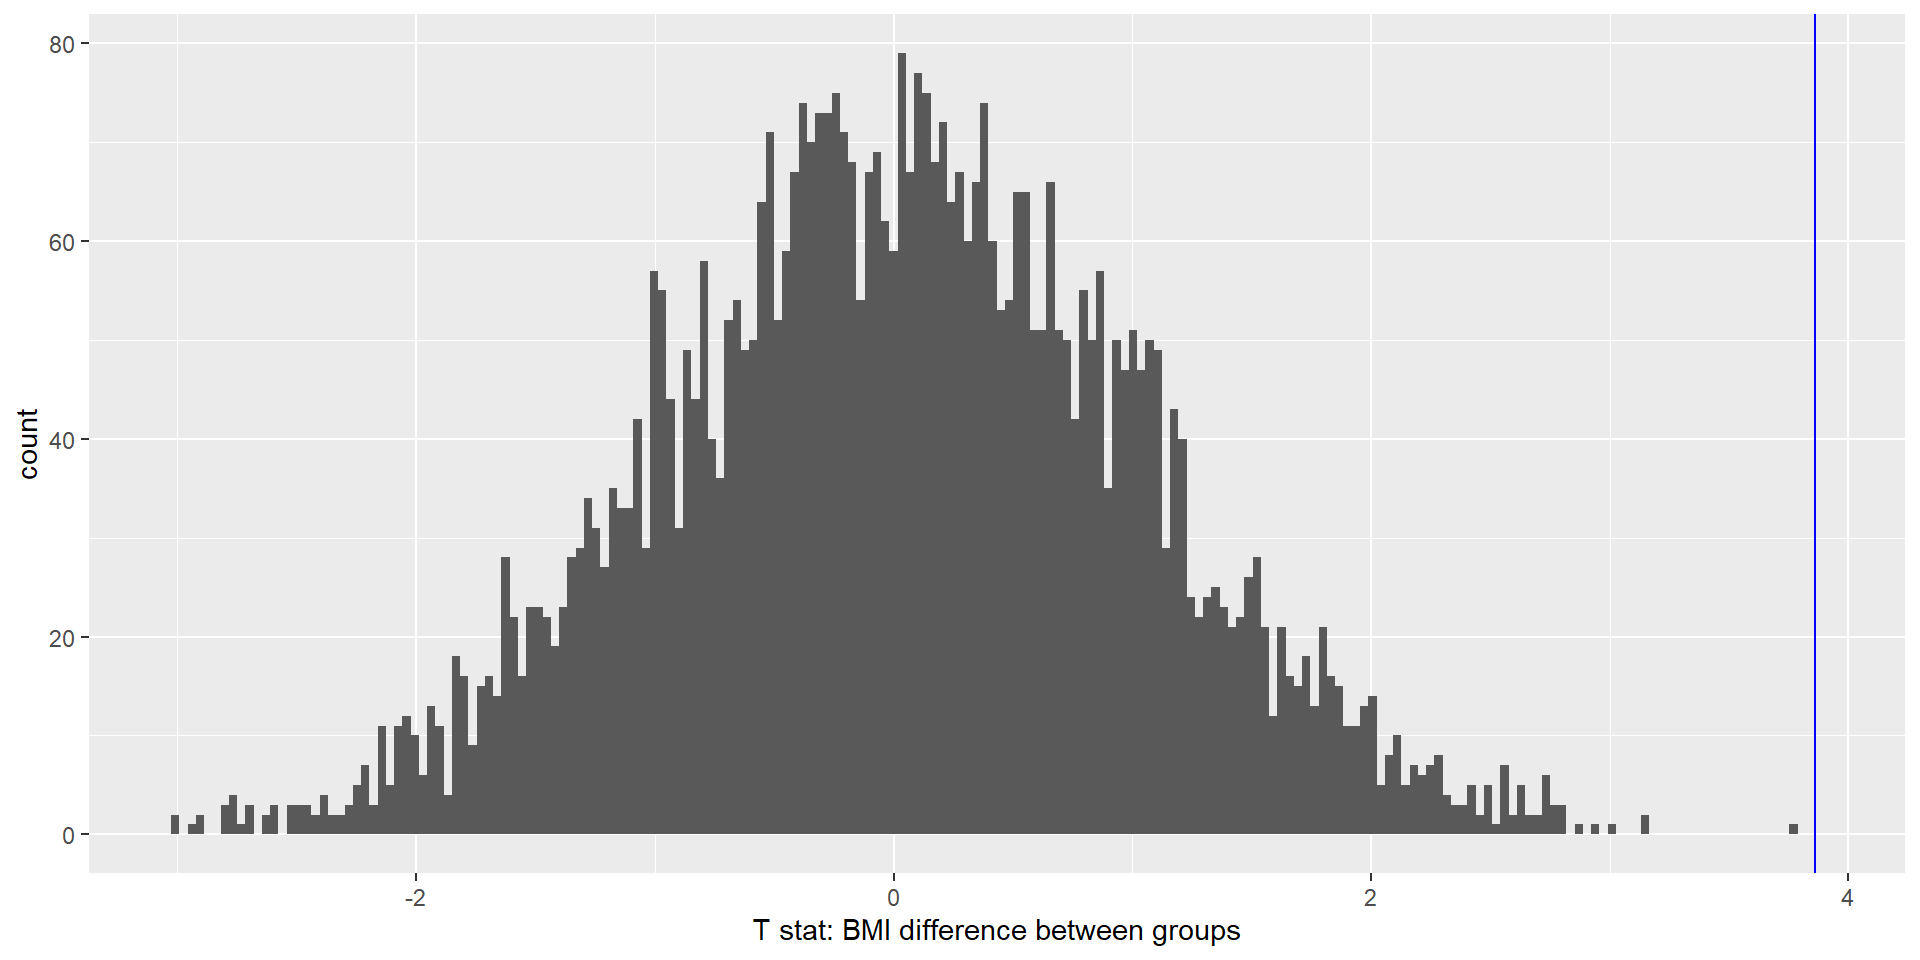
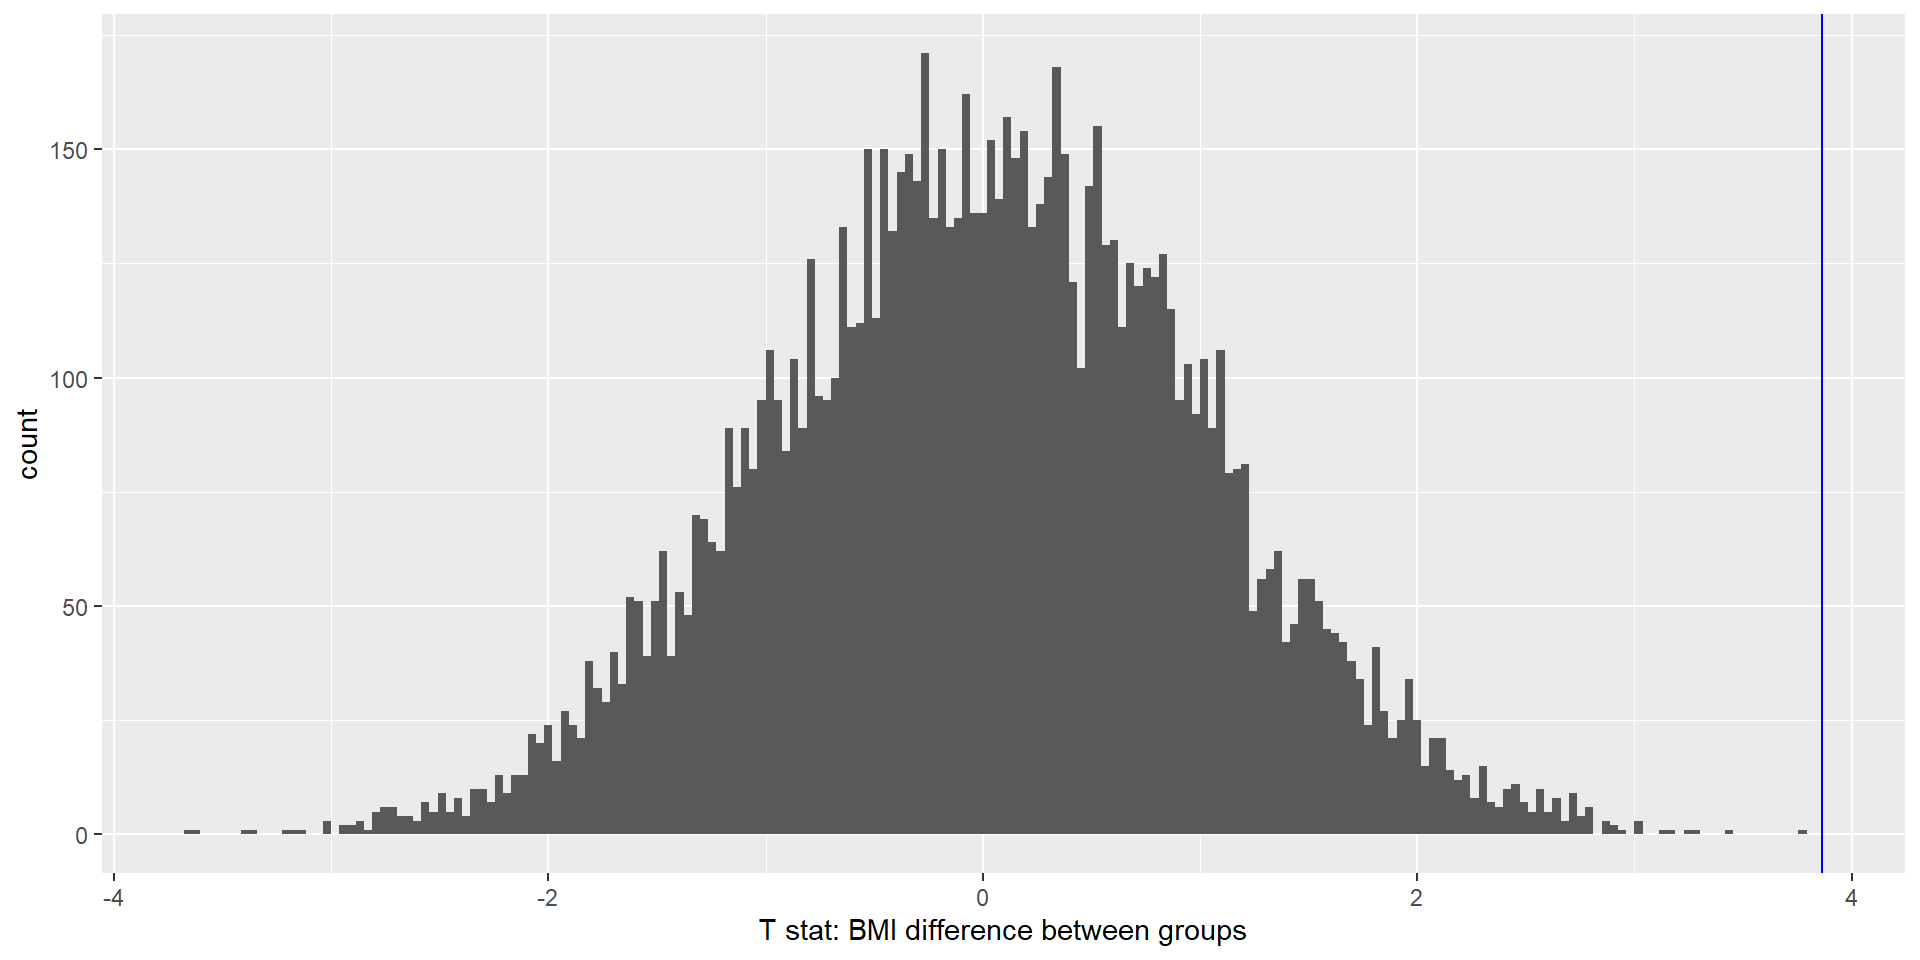
post-lecture adjustments

diff --git a/docs/W7_Hypothesis.html b/docs/W7_Hypothesis.html
@@ -568,20 +568,24 @@ The alternative hypothesis (<span class="math inline">\(H_A\)</span>) describes 
 </tbody>
 </table>
 </div>
-<div class="cell-output-display">
-<div class="quarto-figure quarto-figure-center">
-<figure>
-<p><img data-src="W7_Hypothesis_files/figure-revealjs/unnamed-chunk-2-1.png" width="960"></p>
-</figure>
-</div>
-</div>
-</div>
 
-<aside><div>
+</div>
+<img data-src="W7_Hypothesis_files/figure-revealjs/unnamed-chunk-2-1.png" width="960" class="r-stretch quarto-figure-center"><aside class="notes">
 <p><span class="math inline">\(BMI &gt; 75 kg/m^2\)</span>?<br>
-→ over 243 kg</p>
+→ over 243 kg @ 1.8 m height</p>
 <p>Very high but possible</p>
-</div></aside></section>
+<style type="text/css">
+        span.MJX_Assistive_MathML {
+          position:absolute!important;
+          clip: rect(1px, 1px, 1px, 1px);
+          padding: 1px 0 0 0!important;
+          border: 0!important;
+          height: 1px!important;
+          width: 1px!important;
+          overflow: hidden!important;
+          display:block!important;
+      }</style></aside>
+</section>
 <section id="step-4-fit-a-model" class="slide level2">
 <h2>Step 4: Fit a Model</h2>
 <p>We want to compute a <strong>test statistic</strong> that helps us decide whether to reject <span class="math inline">\(H_0\)</span> or not.</p>
@@ -769,7 +773,7 @@ The alternative hypothesis (<span class="math inline">\(H_A\)</span>) describes 
 <section id="p-values-using-randomization" class="slide level2">
 <h2>P-Values using Randomization</h2>
 <div class="cell">
-<div class="sourceCode cell-code" id="cb5" data-code-line-numbers="7|10-13|18"><pre class="sourceCode numberSource r number-lines code-with-copy"><code class="sourceCode r"><span id="cb5-1"><a href="#cb5-1"></a><span class="co"># create function to shuffle BMI data</span></span>
+<div class="sourceCode cell-code" id="cb5" data-code-line-numbers="7|10-13|18|27-28"><pre class="sourceCode numberSource r number-lines code-with-copy"><code class="sourceCode r"><span id="cb5-1"><a href="#cb5-1"></a><span class="co"># create function to shuffle BMI data</span></span>
 <span id="cb5-2"><a href="#cb5-2"></a>shuffleBMIstat <span class="ot">&lt;-</span> <span class="cf">function</span>() {</span>
 <span id="cb5-3"><a href="#cb5-3"></a>  bmiDataShuffled <span class="ot">&lt;-</span> </span>
 <span id="cb5-4"><a href="#cb5-4"></a>    NHANES_sample <span class="sc">%&gt;%</span></span>
@@ -784,8 +788,8 @@ The alternative hypothesis (<span class="math inline">\(H_A\)</span>) describes 
 <span id="cb5-13"><a href="#cb5-13"></a>  )</span>
 <span id="cb5-14"><a href="#cb5-14"></a>  <span class="fu">return</span>(simResult<span class="sc">$</span>statistic)</span>
 <span id="cb5-15"><a href="#cb5-15"></a>}</span>
-<span id="cb5-16"><a href="#cb5-16"></a><span class="co"># run function 5000 times and save output</span></span>
-<span id="cb5-17"><a href="#cb5-17"></a>nRuns <span class="ot">&lt;-</span> <span class="dv">5000</span></span>
+<span id="cb5-16"><a href="#cb5-16"></a><span class="co"># run function 10'000 times and save output</span></span>
+<span id="cb5-17"><a href="#cb5-17"></a>nRuns <span class="ot">&lt;-</span> <span class="dv">10000</span></span>
 <span id="cb5-18"><a href="#cb5-18"></a>meanDiffSimDf <span class="ot">&lt;-</span> <span class="fu">tibble</span>(<span class="at">meanDiffSim =</span> <span class="fu">replicate</span>(nRuns, <span class="fu">shuffleBMIstat</span>()))</span>
 <span id="cb5-19"><a href="#cb5-19"></a><span class="co">#run t test of actual data</span></span>
 <span id="cb5-20"><a href="#cb5-20"></a>bmtTTest <span class="ot">&lt;-</span> </span>
@@ -796,22 +800,7 @@ The alternative hypothesis (<span class="math inline">\(H_A\)</span>) describes 
 <span id="cb5-25"><a href="#cb5-25"></a>)</span>
 <span id="cb5-26"><a href="#cb5-26"></a><span class="co">#compare actual data with simulation</span></span>
 <span id="cb5-27"><a href="#cb5-27"></a>bmiPvalRand <span class="ot">&lt;-</span> </span>
-<span id="cb5-28"><a href="#cb5-28"></a>  <span class="fu">mean</span>(meanDiffSimDf<span class="sc">$</span>meanDiffSim <span class="sc">&gt;=</span> bmtTTest<span class="sc">$</span>statistic)</span>
-<span id="cb5-29"><a href="#cb5-29"></a></span>
-<span id="cb5-30"><a href="#cb5-30"></a><span class="co">#plot everything</span></span>
-<span id="cb5-31"><a href="#cb5-31"></a>plot <span class="ot">=</span> meanDiffSimDf <span class="sc">%&gt;%</span> </span>
-<span id="cb5-32"><a href="#cb5-32"></a>  <span class="fu">ggplot</span>(<span class="fu">aes</span>(meanDiffSim)) <span class="sc">+</span></span>
-<span id="cb5-33"><a href="#cb5-33"></a>  <span class="fu">geom_histogram</span>(<span class="at">bins =</span> <span class="dv">200</span>) <span class="sc">+</span></span>
-<span id="cb5-34"><a href="#cb5-34"></a>  <span class="fu">geom_vline</span>(<span class="at">xintercept =</span> bmtTTest<span class="sc">$</span>statistic, <span class="at">color =</span> <span class="st">"blue"</span>) <span class="sc">+</span></span>
-<span id="cb5-35"><a href="#cb5-35"></a>  <span class="fu">xlab</span>(<span class="st">"T stat: BMI difference between groups"</span>) <span class="sc">+</span></span>
-<span id="cb5-36"><a href="#cb5-36"></a>  <span class="fu">geom_histogram</span>(</span>
-<span id="cb5-37"><a href="#cb5-37"></a>    <span class="at">data =</span> meanDiffSimDf <span class="sc">%&gt;%</span> </span>
-<span id="cb5-38"><a href="#cb5-38"></a>      <span class="fu">filter</span>(meanDiffSim <span class="sc">&gt;=</span> bmtTTest<span class="sc">$</span>statistic), </span>
-<span id="cb5-39"><a href="#cb5-39"></a>    <span class="fu">aes</span>(meanDiffSim), </span>
-<span id="cb5-40"><a href="#cb5-40"></a>    <span class="at">bins =</span> <span class="dv">200</span>, </span>
-<span id="cb5-41"><a href="#cb5-41"></a>    <span class="at">fill =</span> <span class="st">"gray"</span></span>
-<span id="cb5-42"><a href="#cb5-42"></a>  )</span>
-<span id="cb5-43"><a href="#cb5-43"></a><span class="fu">print</span>(plot)</span></code><button title="Copy to Clipboard" class="code-copy-button"><i class="bi"></i></button></pre></div>
+<span id="cb5-28"><a href="#cb5-28"></a>  <span class="fu">mean</span>(meanDiffSimDf<span class="sc">$</span>meanDiffSim <span class="sc">&gt;=</span> bmtTTest<span class="sc">$</span>statistic)</span></code><button title="Copy to Clipboard" class="code-copy-button"><i class="bi"></i></button></pre></div>
 </div>
 </section>
 <section id="p-values-using-randomization-1" class="slide level2">
